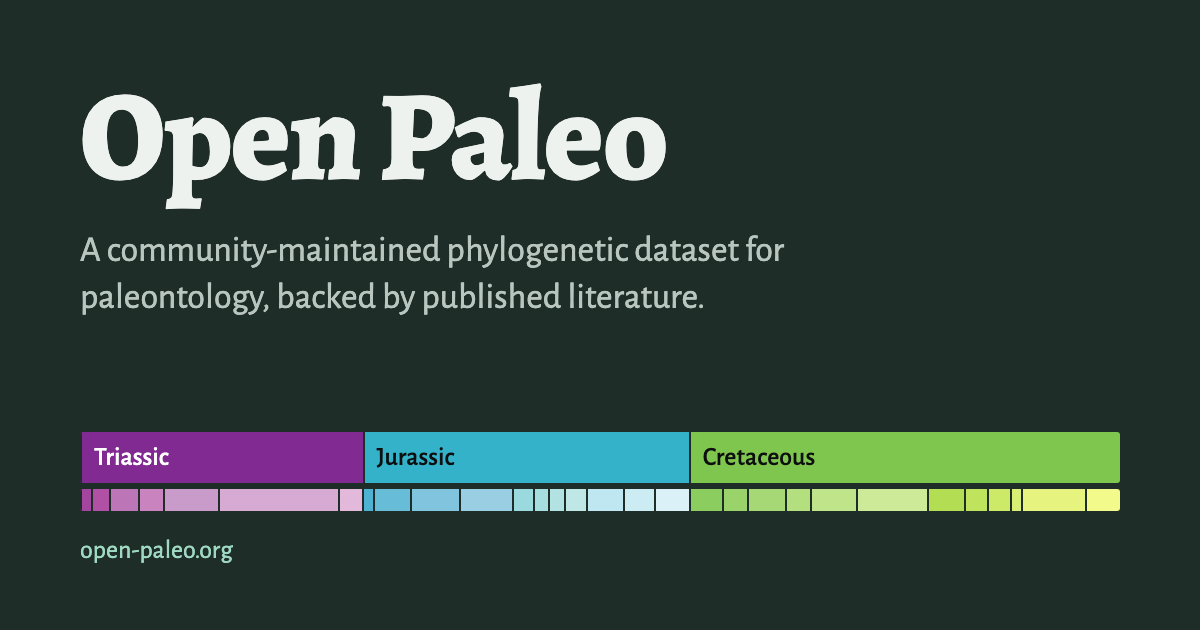
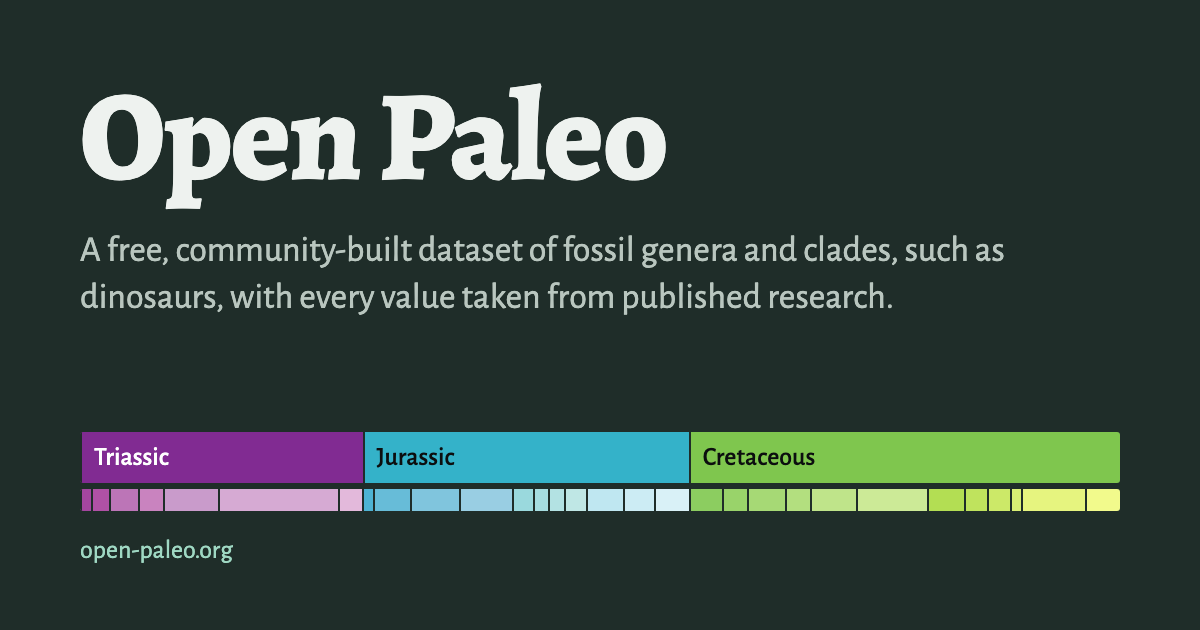
Rewrite the home and index pages in the site's new voice
The home page, the Genera, Clades, Tree, Map, Time, Stratigraphy, Glossary
and Search pages, the 404 page and the footer now speak to the reader, say
what each page is for and what each entry shows, and link stage, epoch, type
species, type specimen and formation to the glossary. The site describes
itself as a dataset of fossil genera and clades, such as dinosaurs, in the
footer, on the home page and in its link preview image, which is redrawn.

Corrections made along the way: the Map counts the genera whose country is
known and says its dots are where type specimens were found; the Tree's top
clade and the Time page's periods come from the data instead of the
template; the home chart no longer names a stage as an example; and the
Genera filters' sentence sits in the filter form, which shows only with
JavaScript. "Placed directly in" leaves the tree's panel and outline.
joinWithAnd joins lists as sentences, now also for outline credits, and
countMajorGroupGenera counts the home page's groups.

Changed region(s): [[0.0925, 0.3619, 0.8325, 0.4222], [0.0617, 0.4524, 0.74, 0.5127]]

diff --git a/src/scripts/tree-chart-renderer.ts b/src/scripts/tree-chart-renderer.ts
@@ -247,10 +247,10 @@ function showTipPanel(view: TreeChartView, tip: TreeChartTip, highlightedGenus: 
         return;
     }
 
-    heading.textContent = tip.isDirect ? "Placed directly in " + tip.cladeName : tip.cladeName;
+    heading.textContent = tip.isDirect ? "Other genera in " + tip.cladeName : tip.cladeName;
     cladeLink.href = baseUrl + "clade/" + tip.cladeSlug + "/";
     cladeLink.textContent = tip.cladeName;
-    summary.replaceChildren((tip.genera.length === 1 ? "1 genus" : tip.genera.length + " genera") + ". Open ", cladeLink, ".");
+    summary.replaceChildren((tip.genera.length === 1 ? "1 genus" : tip.genera.length + " genera") + ". For more, see ", cladeLink, ".");
     list.replaceChildren();
 
     for (const genus of tip.genera)
@@ -439,7 +439,7 @@ function showChartUnavailable(container: HTMLElement): void
     const message = document.createElement("p");
 
     message.className = "tree-chart-unavailable";
-    message.textContent = "The chart could not be shown in this browser. The outline below lists the same clades.";
+    message.textContent = "Your browser can’t show the chart, but the outline below has the same clades.";
     container.replaceChildren(message);
 }
 

diff --git a/test/format.test.ts b/test/format.test.ts
@@ -26,6 +26,7 @@ import {
     getIdentifierUrl,
     getSurnames,
     joinNonEmpty,
+    joinWithAnd,
     splitParagraphs,
     splitPronunciationReadings,
 } from "../src/data/format.ts";
@@ -220,6 +221,14 @@ test("formatThesisKind names a thesis by its degree, with the apostrophe in Mast
     assert.equal(formatThesisKind("habilitation"), "Habilitation thesis");
     assert.equal(formatThesisKind("dissertation-abstract"), "Dissertation abstract");
     assert.equal(createCitationParts({ id: "g", thesis: "masters", school: "University of Alberta" }).publisher, "Master’s thesis, University of Alberta");
+});
+
+test("joinWithAnd joins a list as a sentence does", () =>
+{
+    assert.equal(joinWithAnd([]), "");
+    assert.equal(joinWithAnd(["Jurassic"]), "Jurassic");
+    assert.equal(joinWithAnd(["Jurassic", "Cretaceous"]), "Jurassic and Cretaceous");
+    assert.equal(joinWithAnd(["Triassic", "Jurassic", "Cretaceous"]), "Triassic, Jurassic and Cretaceous");
 });
 
 test("formatIntegumentEvidence says how the integument is known", () =>

diff --git a/test/home.test.ts b/test/home.test.ts
@@ -4,6 +4,7 @@ import { test } from "node:test";
 import { createGeologicTimeline } from "../src/data/age-figure.ts";
 import {
     countGeneraByStage,
+    countMajorGroupGenera,
     describeRecentYears,
     findAxisMaximum,
     findRecentNames,
@@ -108,6 +109,20 @@ test("getMajorGroups keeps the groups the tree has, with a one-sentence summary"
 
     assert.equal(groups[0].clade.name, "Theropoda");
     assert.ok(groups[0].summary.endsWith("."));
+});
+
+test("countMajorGroupGenera adds up the groups' genera, which is no more than all of them", () =>
+{
+    const groups = getMajorGroups(siteData);
+    let expected = 0;
+
+    for (const group of groups)
+    {
+        expected += group.clade.totalGenusCount;
+    }
+
+    assert.equal(countMajorGroupGenera(groups), expected);
+    assert.ok(countMajorGroupGenera(groups) <= siteData.genera.length);
 });
 
 test("findAxisMaximum rounds up to a whole step above the largest count", () =>

diff --git a/src/data/format.ts b/src/data/format.ts
@@ -570,6 +570,23 @@ export function joinNonEmpty(parts: Array<string>): string
 }
 
 /**
+ * Join the items of a list as a sentence does, with "and" before the last and no comma before it:
+ * ["Triassic", "Jurassic", "Cretaceous"] becomes "Triassic, Jurassic and Cretaceous".
+ *
+ * @param items - The items.
+ * @returns The list, or an empty string for none.
+ */
+export function joinWithAnd(items: Array<string>): string
+{
+    if (items.length <= 1)
+    {
+        return items[0] ?? "";
+    }
+
+    return items.slice(0, -1).join(", ") + " and " + items[items.length - 1];
+}
+
+/**
  * Get the first sentence of a passage, for a page's search-engine description.
  *
  * A sentence ends at a period, question mark or exclamation mark, optionally followed by a

diff --git a/src/scripts/site-map.ts b/src/scripts/site-map.ts
@@ -274,7 +274,7 @@ async function drawMap(page: MapPage): Promise<void>
 
     if (!page.view)
     {
-        showMapMessage(page.container, "The map could not be shown in this browser. The genera are listed by place below.");
+        showMapMessage(page.container, "Your browser can’t show the map, but Genera by place, below, lists the same genera.");
 
         return;
     }
@@ -328,7 +328,7 @@ async function initializeMapPage(): Promise<void>
     if (!data)
     {
         controls.form.hidden = true;
-        showMapMessage(container, "The map could not be loaded. The genera are listed by place below.");
+        showMapMessage(container, "The map couldn’t be loaded, but Genera by place, below, lists the same genera.");
 
         return;
     }

diff --git a/src/data/media.ts b/src/data/media.ts
@@ -3,6 +3,7 @@ import * as path from "node:path";
 
 import type { OpenPaleoMedia, Outline } from "./bindings/media";
 import { mediaSchemaVersion } from "./bindings/schema-version.ts";
+import { joinWithAnd } from "./format.ts";
 import { compareSchemaVersions } from "./load-dataset.ts";
 import { findMediaDirectory, mediaFileName } from "./locate-dataset.ts";
 import type { CladeEntry, GenusEntry, SiteData } from "./site-data.ts";
@@ -202,12 +203,7 @@ export function formatOutlineChanges(changes: string): string
         }
     }
 
-    if (parts.length <= 1)
-    {
-        return parts[0] ?? "";
-    }
-
-    return parts.slice(0, -1).join(", ") + " and " + parts[parts.length - 1];
+    return joinWithAnd(parts);
 }
 
 /**

diff --git a/src/data/home.ts b/src/data/home.ts
@@ -305,6 +305,25 @@ export function getMajorGroups(siteData: SiteData): Array<MajorGroup>
 }
 
 /**
+ * Count the genera in the major groups together, for the home page's sentence about them. The
+ * groups don't overlap, so their totals add up.
+ *
+ * @param groups - The major groups.
+ * @returns How many genera they include.
+ */
+export function countMajorGroupGenera(groups: Array<MajorGroup>): number
+{
+    let count = 0;
+
+    for (const group of groups)
+    {
+        count += group.clade.totalGenusCount;
+    }
+
+    return count;
+}
+
+/**
  * Choose the top of the chart's value axis: the largest count rounded up to a whole step, so
  * the tallest bar never touches the top and every tick is a round number.
  *

diff --git a/scripts/create-social-image.ts b/scripts/create-social-image.ts
@@ -150,7 +150,7 @@ function writeImagePage(): string
 
     p
     {
-        max-width: 820px;
+        max-width: 960px;
         margin-top: 28px;
         color: var(--color-header-muted);
         font-size: 36px;
@@ -206,7 +206,7 @@ function writeImagePage(): string
 <body>
     <div>
         <h1>Open Paleo</h1>
-        <p>A community-maintained phylogenetic dataset for paleontology, backed by published literature.</p>
+        <p>A free, community-built dataset of fossil genera and clades, such as dinosaurs, with every value taken from published research.</p>
     </div>
     <div class="scale">
         <div class="row periods">${writeBandRow(createBands(periods, "--period-"), periodNames)}</div>

diff --git a/CHANGELOG.md b/CHANGELOG.md
@@ -32,6 +32,15 @@ its own changelog in [open-paleo/data](https://github.com/open-paleo/data).
 
 ### Changed
 
+- The home page, the Genera, Clades, Tree, Map, Time, Stratigraphy, Glossary and Search pages,
+  the 404 page and the footer are rewritten in a warmer, plainer voice: they speak to the reader,
+  say what each page is for and what each entry shows, and link terms such as *stage*, *type
+  species* and *formation* to the glossary. The site describes itself as a dataset of fossil
+  genera and clades, such as dinosaurs, in the footer, the home page and its link preview image.
+  Corrections along the way: the Map counts only the genera whose country is known and says what
+  its dots are (where type specimens were found); the Tree and Time pages take the tree's top
+  clade and the periods from the data; and the Genera page's filters say what they do, inside the
+  filter form, which shows only with JavaScript
 - Every page ends with a line naming the dataset release it was built from, linked to Data, in
   place of the release in the footer, on the home page and in the Genera, Clades and References
   intros. Those intros now say what each entry shows, and link *type species* and *epoch* to the
